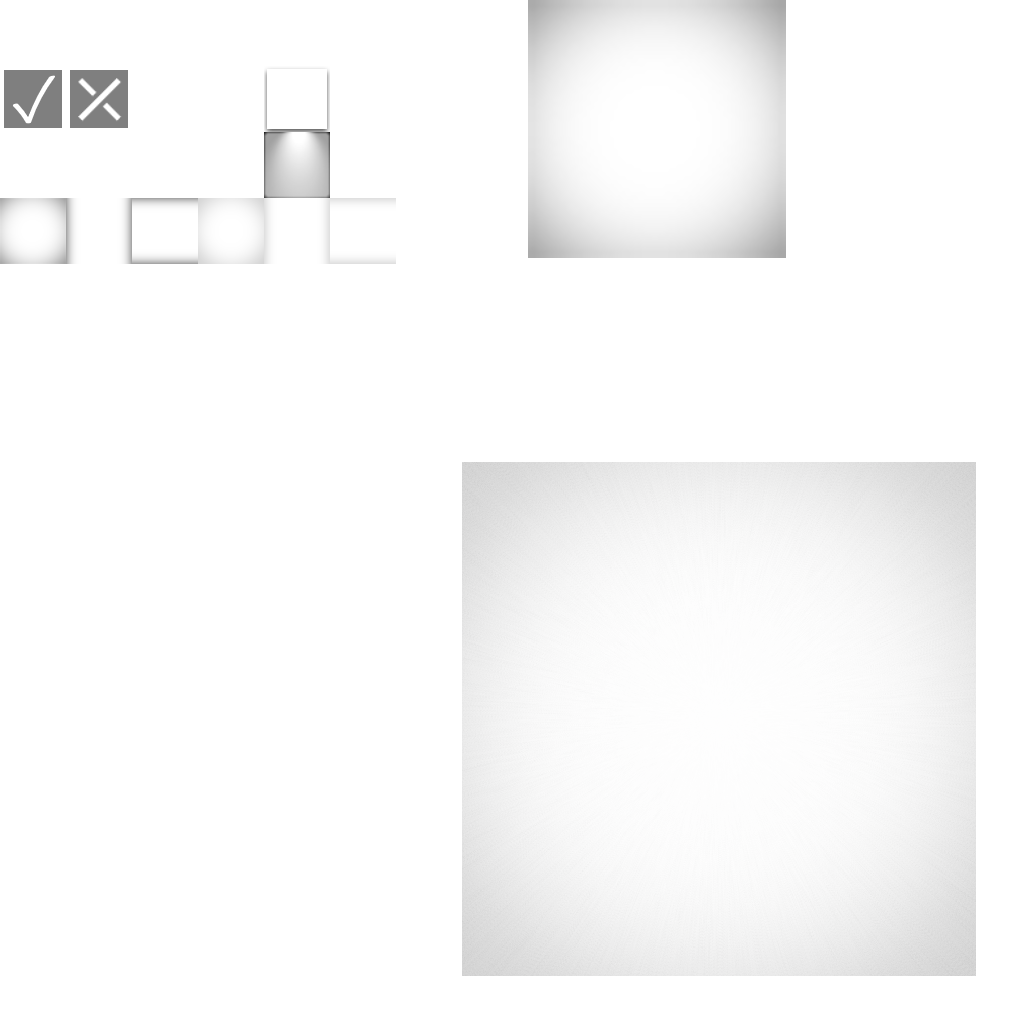
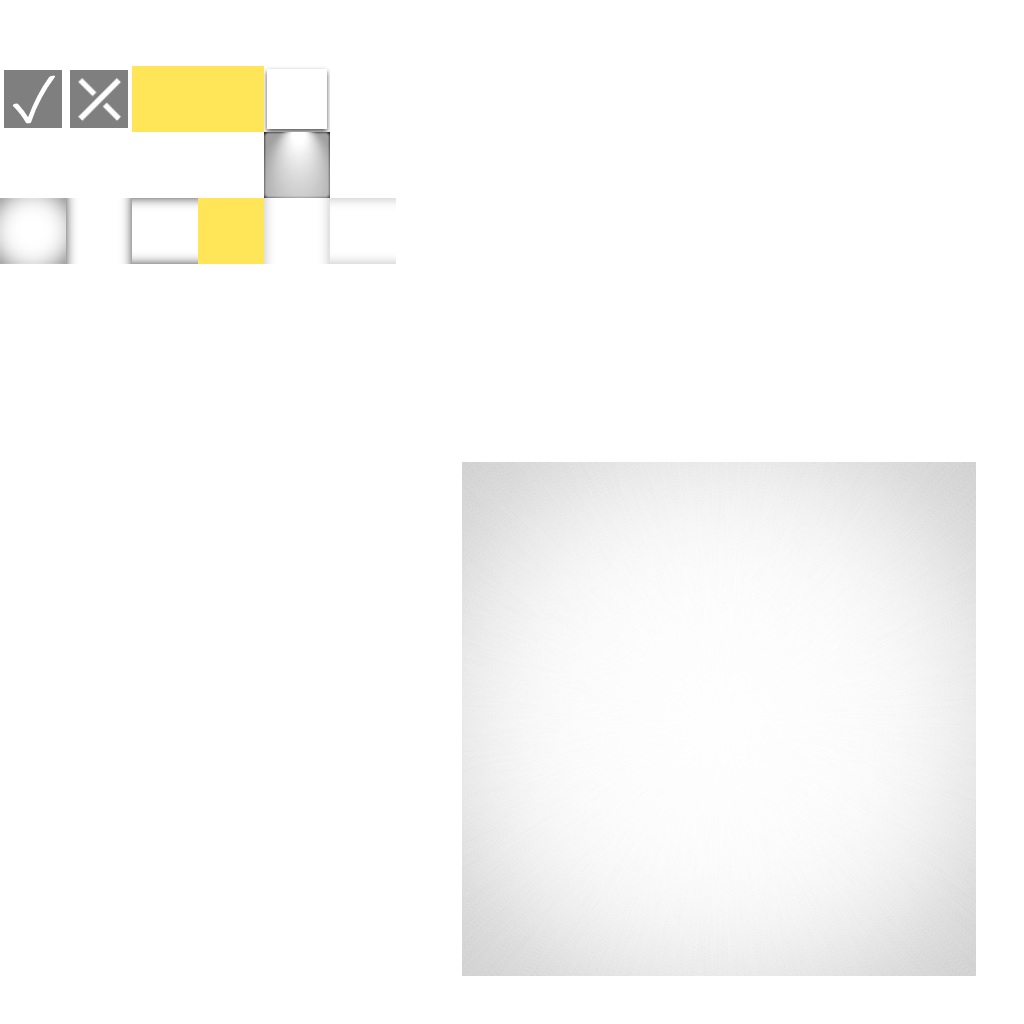
lil visual polish

Changed region(s): [[0.5, 0.0, 0.7812, 0.25], [0.125, 0.0625, 0.2812, 0.1562], [0.1875, 0.1875, 0.2812, 0.2812]]

diff --git a/ClientProject/ClientSource/CUI/Core/Styling/Palette/CUIPalette.Preview.cs b/ClientProject/ClientSource/CUI/Core/Styling/Palette/CUIPalette.Preview.cs
@@ -22,29 +22,36 @@ namespace CrabUI
         FitContent = new CUIBool2(false, true),
       };
 
-      block["header"]["bnt1"] = new CUIButton("bruh") { Flex = 1 };
-      block["header"]["bnt2"] = new CUIButton("bruh") { Flex = 1 };
+      block["header"]["bnt1"] = new CUIButton("button") { Flex = 1 };
+      block["header"]["bnt2"] = new CUIButton("button") { Flex = 1 };
 
       block["main"] = new CUIVerticalList()
       {
         Flex = 1,
       };
 
-      block["main"]["field1"] = new CUIDefault.IntField()
+      block["main"]["input"] = new CUITextInput()
       {
-        Key = "bruh",
-        Value = 123,
+        Anchor = CUIAnchor.Center,
+        Absolute = new CUINullRect(h: 24),
+        Text = CUICore.Parser.Serialize(palette.BaseColor),
+        OnInput = (s) => palette.Swap(CUIPalette.FromColor(CUICore.Parser.Parse<Color>(s))),
       };
 
-      block["main"]["radios"] = new CUIHorizontalList()
+      block["main"]["panel"] = new CUIDefault.HorizontalPanel()
       {
         FitContent = new CUIBool2(false, true),
       };
 
-      block["main"]["radios"]["1"] = new CUIRadioButton("radio 1") { Group = "bruh" };
-      block["main"]["radios"]["2"] = new CUIRadioButton("radio 2") { Group = "bruh" };
+      block["main"]["panel"]["radios"] = new CUIHorizontalList()
+      {
+        FitContent = new CUIBool2(false, true),
+      };
 
-      block["main"]["checkbox"] = new CUICheckBox()
+      block["main"]["panel"]["radios"]["1"] = new CUIRadioButton("radio button 1") { Group = "bruh" };
+      block["main"]["panel"]["radios"]["2"] = new CUIRadioButton("radio button 2") { Group = "bruh" };
+
+      block["main"]["panel"]["checkbox"] = new CUICheckBox()
       {
         Absolute = new CUINullRect(w: 30, h: 30),
       };

diff --git a/ClientProject/ClientSource/CUI/Core/Debug/CUIDebugger/CUIDebugger.EventPage.cs b/ClientProject/ClientSource/CUI/Core/Debug/CUIDebugger/CUIDebugger.EventPage.cs
@@ -82,7 +82,7 @@ namespace CrabUI
         EventList.Scroll = 0;
       }
 
-      public override void Refresh()
+      protected override void Refresh()
       {
         RefreshNodes();
         ClearEventList();
@@ -123,7 +123,8 @@ namespace CrabUI
         {
           Flex = 1,
           Scrollable = true,
-          Background = { Sprite = CUISprite.VerticalGradient, Color = new Color(0, 100, 100) }
+          Background = { Sprite = CUISprite.VerticalGradient },
+          Style = (c) => c.Background.Color = c.Palette["panel"],
         };
 
         using (new CUIContextStyle<CUIRadioButton>(btn =>
@@ -142,6 +143,7 @@ namespace CrabUI
           wrapper["controls"]["update"] = UpdateEventFlow = new CUIRadioButton("Update") { Selected = true };
         }
 
+        wrapper.DeepPalette = CUICore.Palettes.Quaternary;
 
 
         return wrapper;
@@ -185,14 +187,14 @@ namespace CrabUI
 
 
         this["panels"] = new CUIHorizontalList() { Relative = new CUINullRect(0, 0, 1, 1) };
-        this["panels"]["nodes"] = new CUIVerticalList()
+        this["panels"]["nodes"] = new CUIDefault.VerticalPanel()
         {
           Absolute = new(w: 150),
           Borders = { Right = 3 }
         };
         this["panels"]["nodes"]["header"] = new CUITextBlock("Nodes:");
         this["panels"]["nodes"]["list"] = new CUIVerticalList() { Flex = 1 };
-
+        this["panels"]["nodes"].DeepPalette = CUICore.Palettes.Tertiary;
 
         this["panels"]["events"] = CreateEventList();
       }

diff --git a/ClientProject/ClientSource/CUI/Core/Debug/CUIDebugger/CUIDebugger.ComponentsPage.cs b/ClientProject/ClientSource/CUI/Core/Debug/CUIDebugger/CUIDebugger.ComponentsPage.cs
@@ -13,10 +13,59 @@ namespace CrabUI
     public class ComponentsPageComponent : CUIPage
     {
 
+      private CUIVerticalList ComponentList;
+      private CUIComponent HighlightOverlay;
+
+      private void HandleOpen()
+      {
+        CUI.TopMain.Children.Insert(0, HighlightOverlay);
+        Refresh();
+      }
+
+      private void HandleClose()
+      {
+        HighlightOverlay.RemoveSelf();
+        HighlightOverlay.Absolute = new CUINullRect();
+      }
+
+      protected override void Refresh()
+      {
+        ComponentList.Clear();
+
+        foreach (CUIVisualComponent child in CUI.Main.DeepChildren)
+        {
+          if (child.IsDebugTool) continue;
+
+          ComponentList.Add(
+            new CUITextBlock(child.ToString())
+            {
+              TextAnchor = CUIAnchor.LeftCenter,
+            }
+          );
+        }
+      }
+
 
       public ComponentsPageComponent()
       {
-        Background.Color = Color.Blue;
+        OnOpen.Add(HandleOpen);
+        OnClose.Add(HandleClose);
+
+        HighlightOverlay = new CUIComponent()
+        {
+          Background = { Sprite = CUISprite.BaroDev }
+        };
+
+        this["panels"] = new CUIHorizontalList()
+        {
+          Relative = new CUINullRect(0, 0, 1, 1),
+        };
+
+        this["panels"]["components"] = ComponentList = new CUIVerticalList()
+        {
+          FitContent = new CUIBool2(true, false),
+          Background = { Color = Color.Green },
+        };
       }
     }
 

diff --git a/ClientProject/ClientSource/CUI/Core/Styling/Palette/CUIPaletteManager.cs b/ClientProject/ClientSource/CUI/Core/Styling/Palette/CUIPaletteManager.cs
@@ -8,25 +8,25 @@ namespace CrabUI
 {
   public class CUIPalettes
   {
-    private CUIPalette _Primary = CUIPalette.FromColor(new Color(64, 64, 64)); public CUIPalette Primary
+    private CUIPalette _Primary = CUIPalette.FromColor(new Color(128, 255, 255)); public CUIPalette Primary
     {
       get => _Primary;
       set => _Primary.Swap(value);
     }
 
-    private CUIPalette _Secondary = CUIPalette.FromColor(new Color(0, 128, 90)); public CUIPalette Secondary
+    private CUIPalette _Secondary = CUIPalette.FromColor(new Color(0, 255, 200)); public CUIPalette Secondary
     {
       get => _Secondary;
       set => _Secondary.Swap(value);
     }
 
-    private CUIPalette _Tertiary = CUIPalette.FromColor(new Color(0, 128, 128)); public CUIPalette Tertiary
+    private CUIPalette _Tertiary = CUIPalette.FromColor(new Color(0, 255, 255)); public CUIPalette Tertiary
     {
       get => _Tertiary;
       set => _Tertiary.Swap(value);
     }
 
-    private CUIPalette _Quaternary = CUIPalette.FromColor(new Color(0, 0, 128)); public CUIPalette Quaternary
+    private CUIPalette _Quaternary = CUIPalette.FromColor(new Color(0, 200, 255)); public CUIPalette Quaternary
     {
       get => _Quaternary;
       set => _Quaternary.Swap(value);

diff --git a/ClientProject/ClientSource/CUI/Infrastructure/Graphics/Sprites/CUISprite/CUISprite.Default.cs b/ClientProject/ClientSource/CUI/Infrastructure/Graphics/Sprites/CUISprite/CUISprite.Default.cs
@@ -27,8 +27,8 @@ namespace CrabUI
     public static CUISprite Cross => AtPos(0, 0);
     public static CUISprite Angle => AtPos(1, 0);
 
-    public static CUISprite HorizontalGradient => AtPos(2, 1);
-    public static CUISprite VerticalGradient => AtPos(3, 1);
+    public static CUISprite HorizontalGradient => AtPos(7, 6, 8, 1);
+    public static CUISprite VerticalGradient => AtPos(6, 7, 1, 8);
     public static CUISprite BoxWithAShadow => AtPos(4, 1);
 
     public static CUISprite BluredEdges => AtPos(0, 2);
@@ -37,10 +37,10 @@ namespace CrabUI
     public static CUISprite Window => AtPos(3, 2);
     public static CUISprite BoxWithALamp => AtPos(4, 2);
 
-    public static CUISprite Vignette => AtPos(7, 7, 8, 8);
+    public static CUISprite Vignette => AtPos(0, 3);
     public static CUISprite DimmedHorizontal => AtPos(1, 3);
     public static CUISprite DimmedVertical => AtPos(2, 3);
-    public static CUISprite VignetteLight => AtPos(3, 3);
+    public static CUISprite VignetteLight => AtPos(7, 7, 8, 8);
     public static CUISprite DimmedHorizontalLight => AtPos(4, 3);
     public static CUISprite DimmedVerticalLight => AtPos(5, 3);
 

diff --git a/ClientProject/ClientSource/CUI/Core/Debug/CUIDebugger/CUIDebugger.ToolsPanel.cs b/ClientProject/ClientSource/CUI/Core/Debug/CUIDebugger/CUIDebugger.ToolsPanel.cs
@@ -5,6 +5,7 @@ using System.Reflection;
 using System.Diagnostics;
 using CUILibs;
 using Microsoft.Xna.Framework;
+using Barotrauma;
 
 namespace CrabUI
 {
@@ -17,8 +18,17 @@ namespace CrabUI
         FitContent = new CUIBool2(false, true),
         // Borders = { Bottom = 2 }
       };
-      wrapper["Hint"] = new CUITextBlock("Tools: ") { };
 
+      wrapper["Reload Lua"] = new CUIButton("Reload Lua")
+      {
+        OnMouseDown = (e) => DebugConsole.ExecuteCommand("cl_reloadlua"),
+        Style = (c) => c.MasterColor = Color.Red,
+      };
+
+      wrapper["palettes"] = new CUIButton("Palettes")
+      {
+        OnMouseDown = (e) => DebugConsole.ExecuteCommand("cuipalettepreview"),
+      };
 
       wrapper["mg"] = new CUIButton("Magnifying Glass")
       {
@@ -29,7 +39,7 @@ namespace CrabUI
         },
       };
 
-      // list.DeepPalette = CUICore.Palettes.Tertiary;
+      wrapper.DeepPalette = CUICore.Palettes.Primary;
 
       return wrapper;
     }

diff --git a/ClientProject/ClientSource/CUI/Core/Components/CUIButton.cs b/ClientProject/ClientSource/CUI/Core/Components/CUIButton.cs
@@ -24,7 +24,7 @@ namespace CrabUI
     {
       base.InitStyle();
       Padding = new(2, 4, 2, 4);
-      Background.Sprite = CUISprite.VignetteLight;
+      Background.Sprite = CUISprite.Vignette;
     }
 
     [CUISerializableProp]
@@ -50,6 +50,11 @@ namespace CrabUI
       Background.Color = InactiveColor;
       if (MouseOver) Background.Color = MouseOverColor;
       if (MousePressed) Background.Color = MousePressedColor;
+    }
+
+    public new Action<CUIButton> Style
+    {
+      set => PersonalStyle = new CUIActionStyle<CUIButton>("personal", value);
     }
 
     public CUIButton() : base() { }

diff --git a/ClientProject/InMemory/CUITest/E2E/Test/Console/Console.cs b/ClientProject/InMemory/CUITest/E2E/Test/Console/Console.cs
@@ -33,12 +33,13 @@ namespace CrabUIUser
           Flex = 1,
           Background = {
             Sprite = CUISprite.VerticalGradient with {
-              Color = new Color(128,0,255),
               Effects = SpriteEffects.FlipVertically,
             },
           },
           Scrollable = true,
           Direction = CUIDirection.Reverse,
+          Style = (c) => c.Background.Color = c.Palette["panel"],
+          Palette = CUICore.Palettes.Secondary,
         };
 
         this["layout"]["logwrapper"]["log"] = LogList = new CUIVerticalList()

diff --git a/ClientProject/ClientSource/CUI/Core/Styling/Palette/CUIPalette.cs b/ClientProject/ClientSource/CUI/Core/Styling/Palette/CUIPalette.cs
@@ -10,6 +10,8 @@ namespace CrabUI
   //Note that later i might split it into multiple dicts, interface should stay the same
   public partial class CUIPalette : ReactiveDict<string, Color>
   {
+    public Color BaseColor { get; set; }
+
     public static CUIPalette FromColor(Color color)
     {
       float brightness = color.Brightness();
@@ -37,6 +39,8 @@ namespace CrabUI
         ["valid"] = valid,
         ["invalid"] = invalid,
         ["disabled"] = disabled,
+
+        BaseColor = color,
       };
     }
 

diff --git a/ClientProject/ClientSource/CUI/Core/Components/CUIFrame.cs b/ClientProject/ClientSource/CUI/Core/Components/CUIFrame.cs
@@ -29,7 +29,7 @@ namespace CrabUI
       Resizable = true;
       Focusable = true;
       ConsumeMouseEvents = true;
-      Background.Sprite = CUISprite.Vignette;
+      Background.Sprite = CUISprite.VignetteLight;
     }
 
     public CUIComponent TargetMainComponent { get; set; }

diff --git a/ClientProject/ClientSource/CUI/Core/Debug/CUIDebugger/CUIDebugger.cs b/ClientProject/ClientSource/CUI/Core/Debug/CUIDebugger/CUIDebugger.cs
@@ -40,6 +40,7 @@ namespace CrabUI
         Flex = 1,
         OnMouseDown = (e) => Pages.Open(ComponentsPage),
       };
+      this["layout"]["page buttons"].DeepPalette = CUICore.Palettes.Secondary;
 
 
       this["layout"]["pages"] = Pages = new CUIPages() { Flex = 1, };

diff --git a/ClientProject/InMemory/Mod.cs b/ClientProject/InMemory/Mod.cs
@@ -50,7 +50,7 @@ namespace CrabUIUser
           OnMouseDown = (e) => CUICore.Debugger.Open(),
         };
 
-        CUICore.Debugger.Open();
+        // CUICore.Debugger.Open();
 
         // Utils.PrintAllHarmonyPatches();
         // CUIPalette.Preview();
